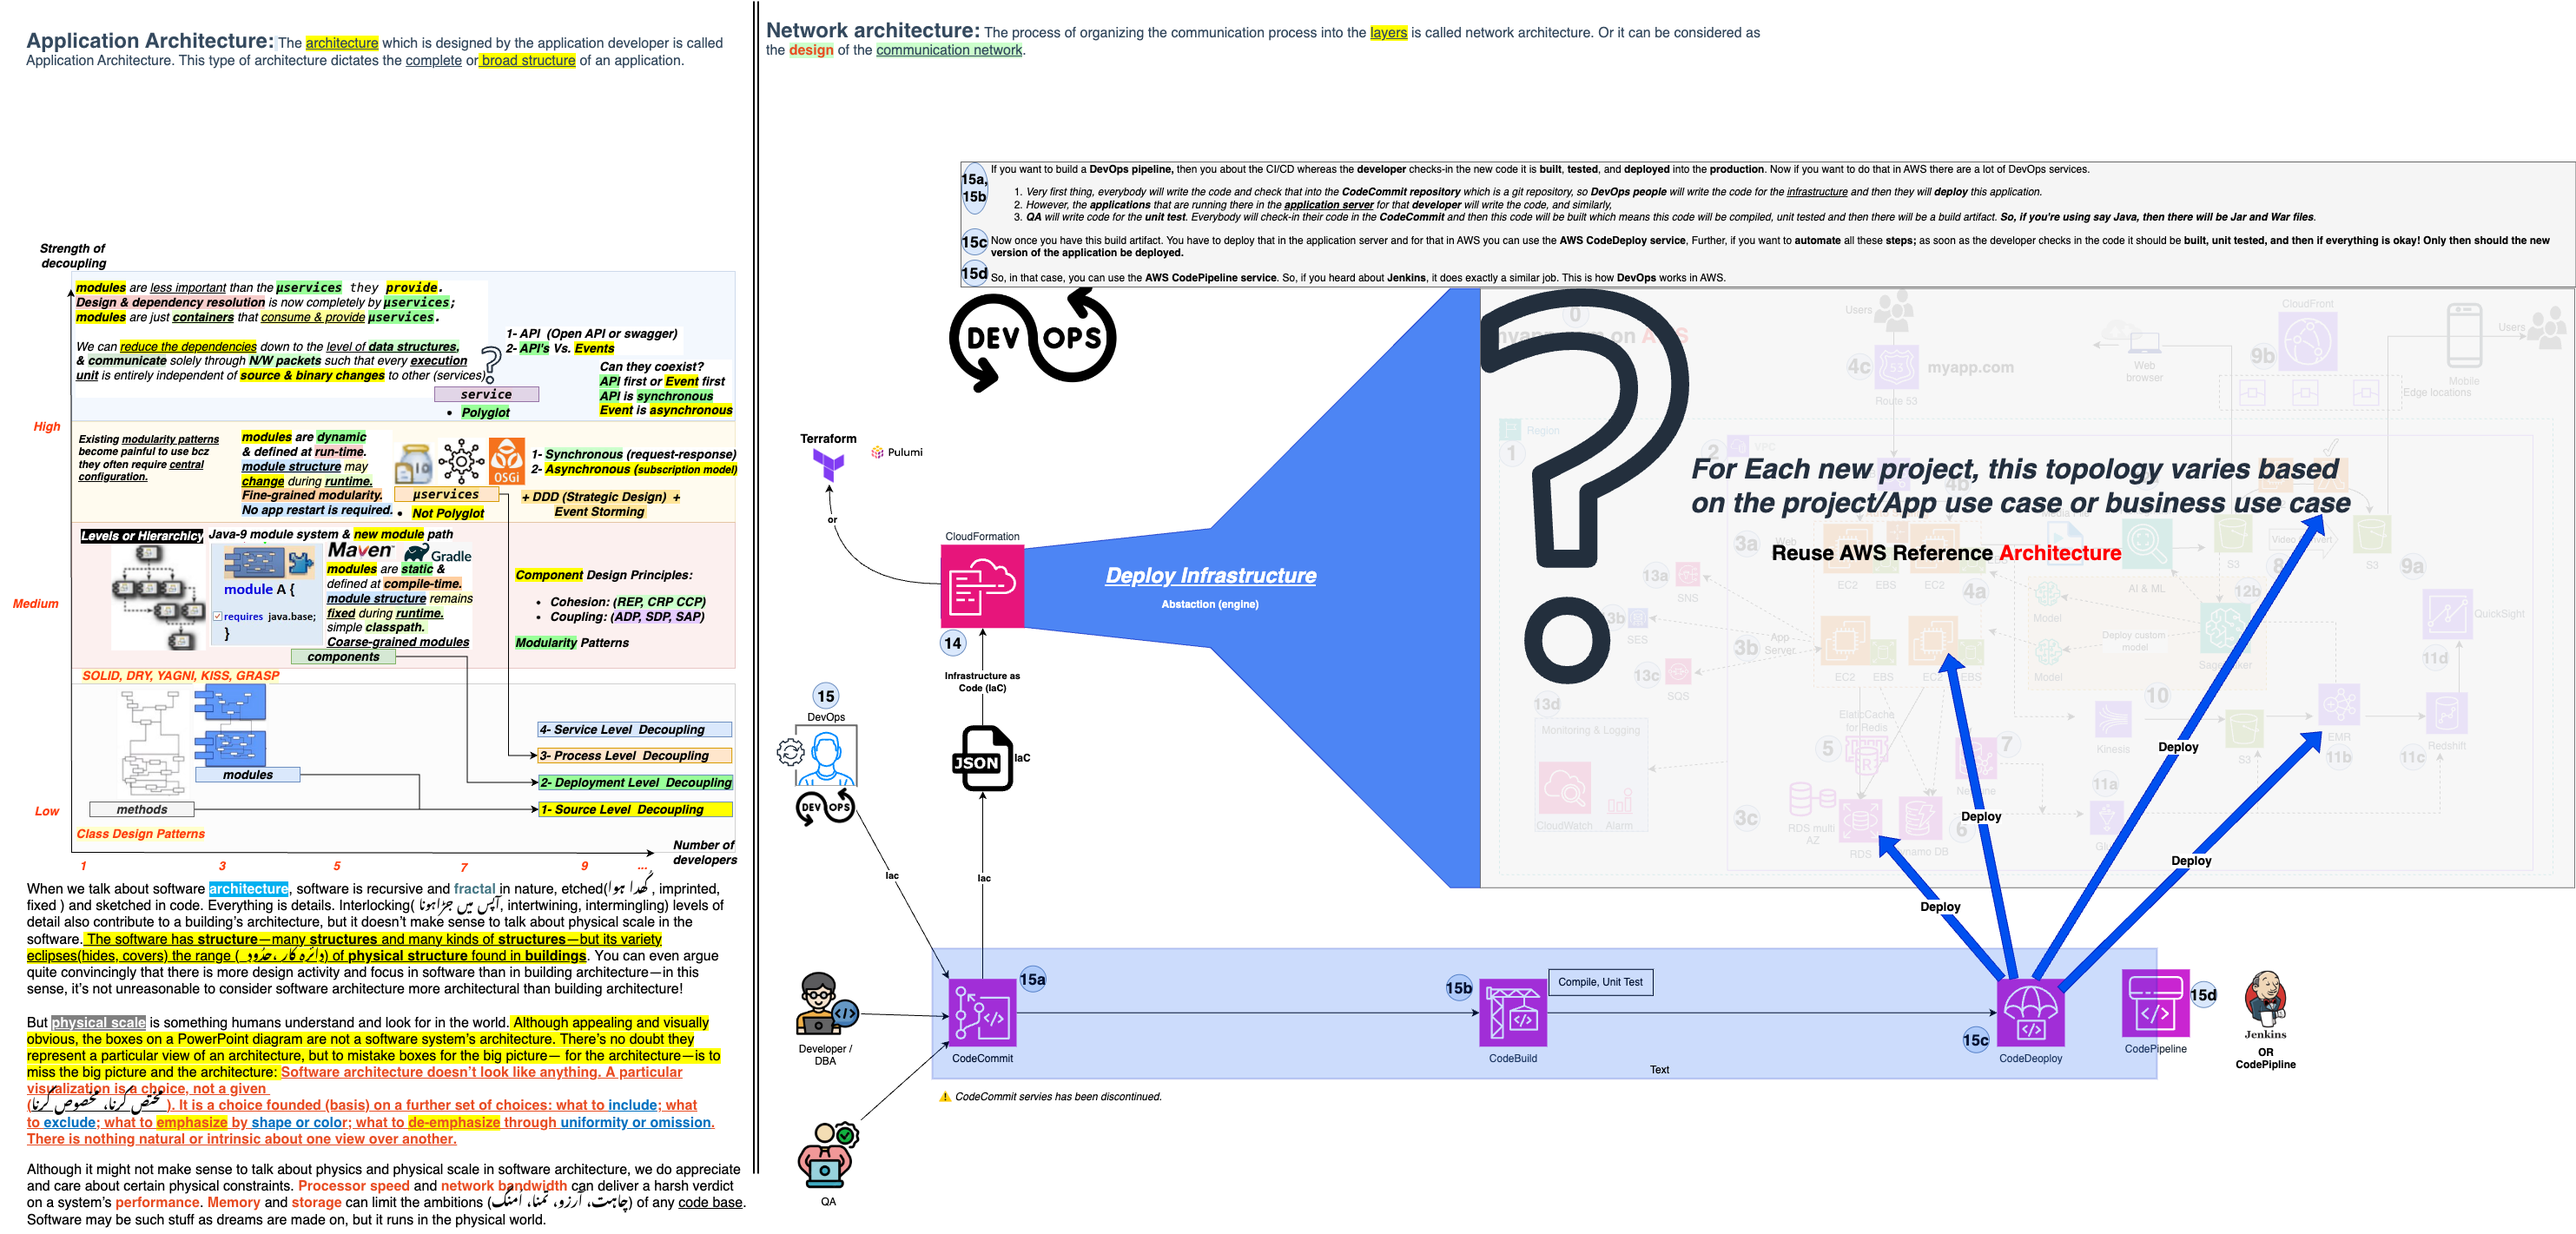
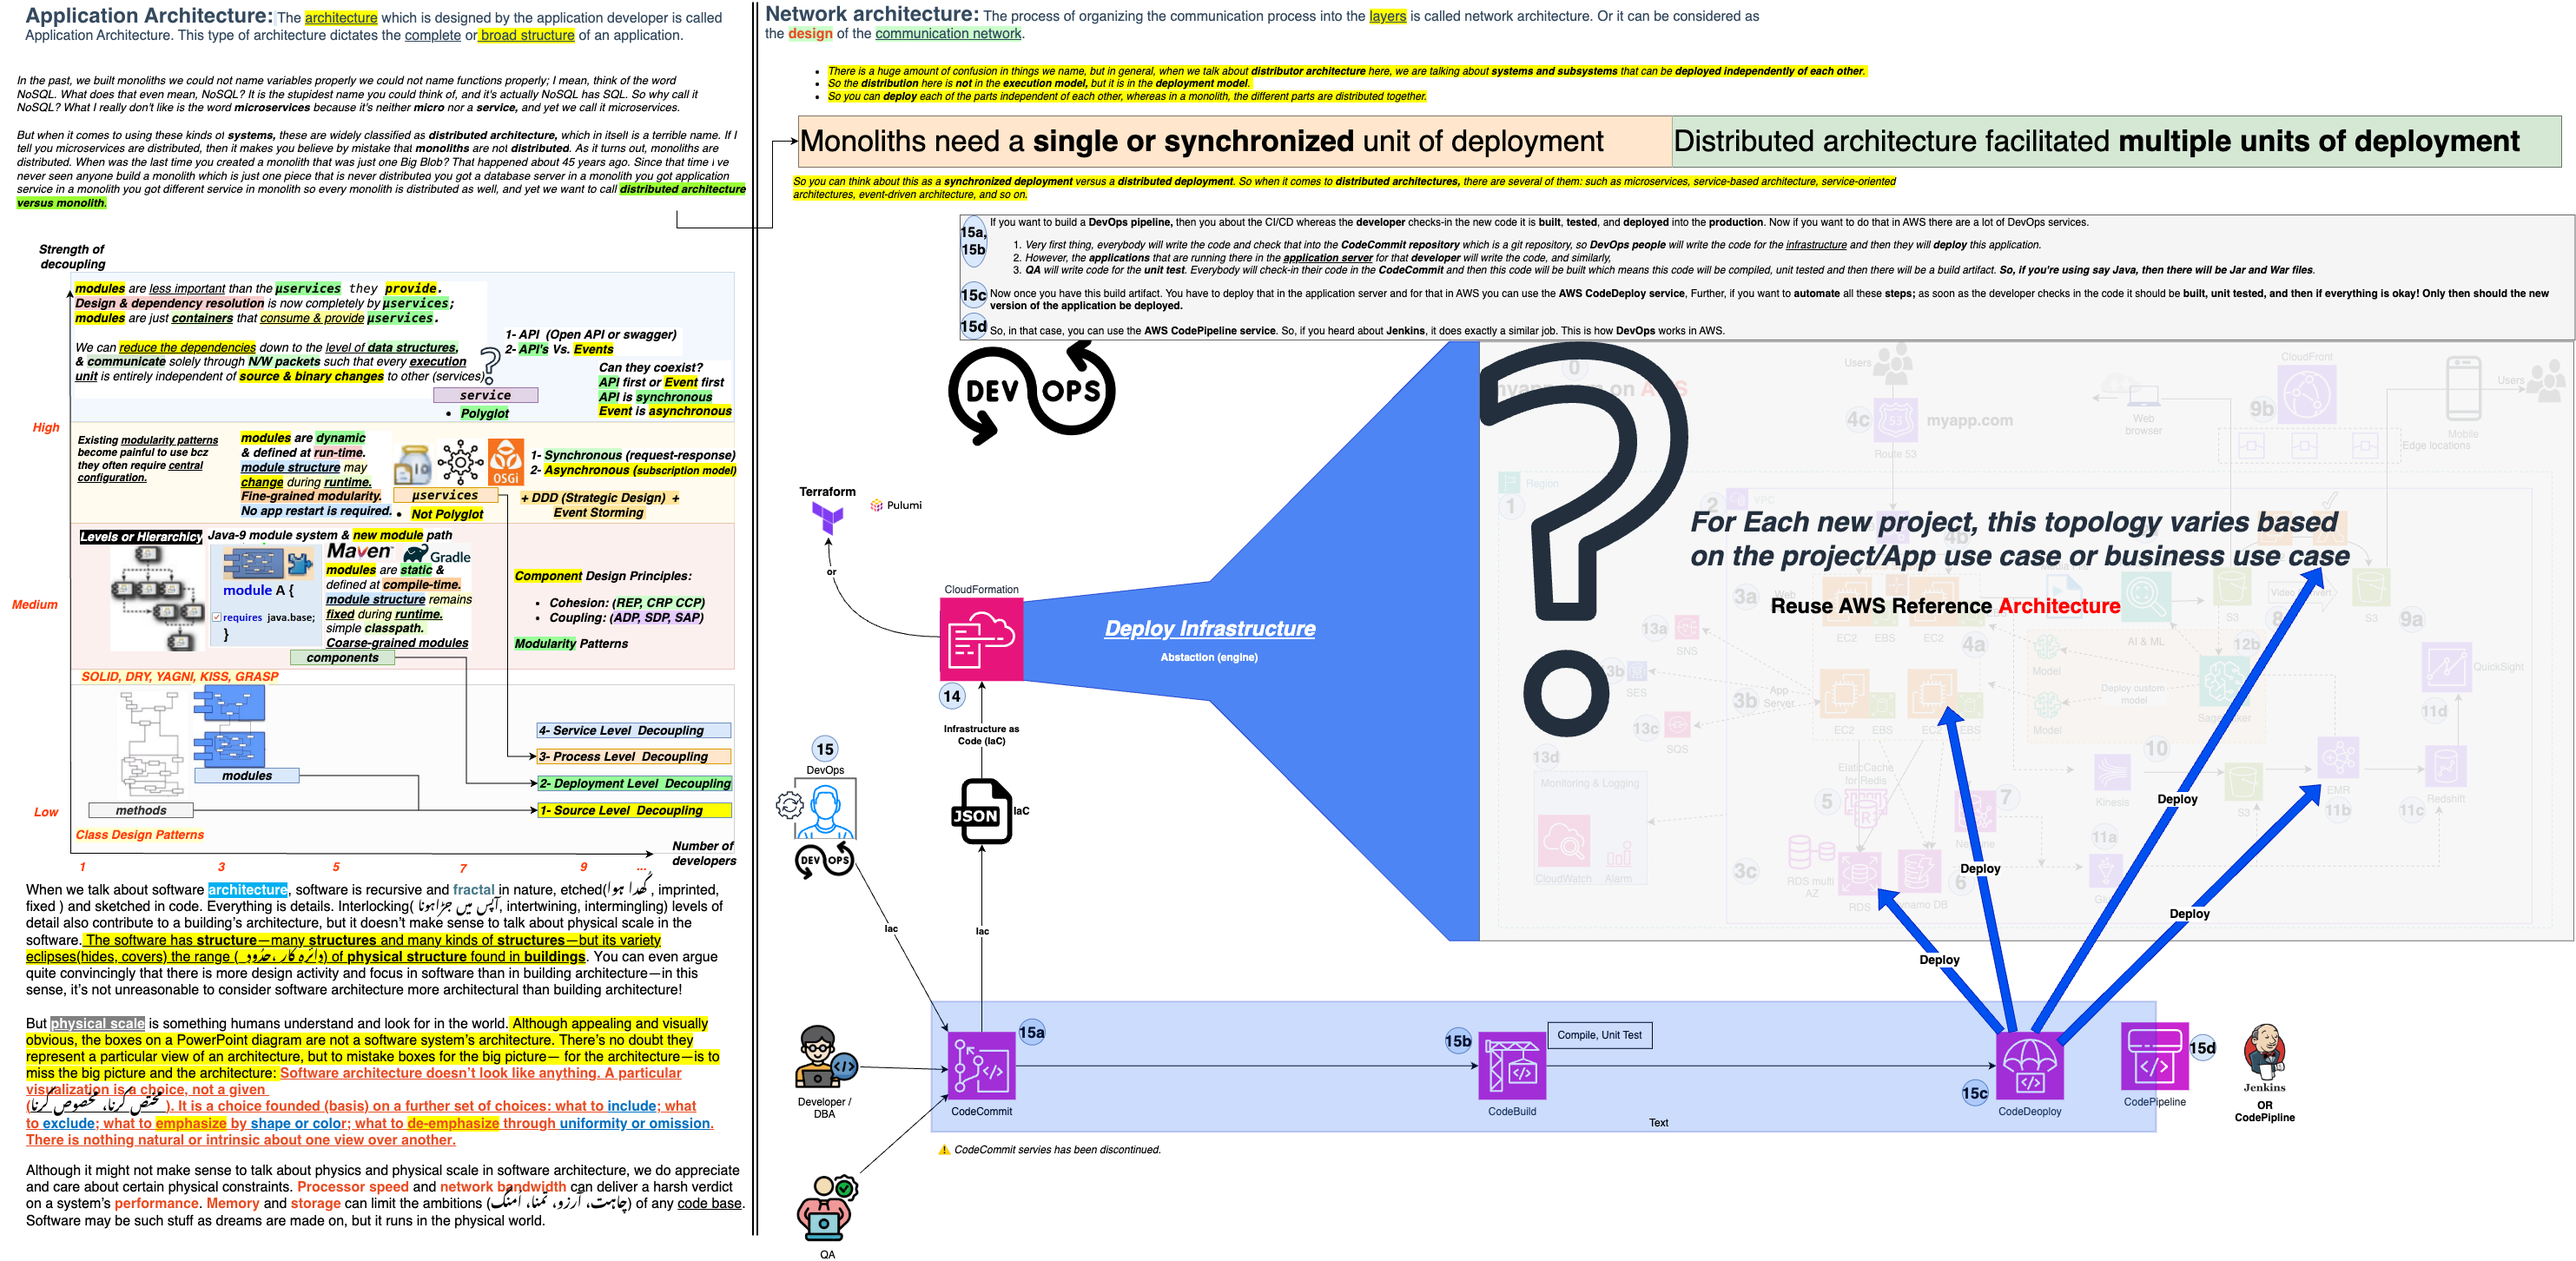
added 12-Essential-Practices-to-be-Effective-in-Continuous-Delivery.puml updated diagrams, and Observing-Applications-in-Production.puml also venkat-talks-mindmap.puml

Changed region(s): [[0.0, 0.0, 1.0, 1.0], [0.5893, 0.6193, 0.6204, 0.7122]]

diff --git a/docs/rough.md b/docs/rough.md
@@ -1,0 +1,22 @@
+In the past we built really monoliths we cannot name variables properly, we cannot name functions properly; I mean think of the word NoSQL. What does that even mean NoSQL? Is the stupidest name you could think of, and it's NoSQL
+actually has SQL. So why call it NoSQL? What I really don't like is the word **microservices** because it's neither **micro** nor a **service,**
+and yet we call it microservices.
+
+But when it comes to using these kinds of **systems** these are widely classified as **distributed architecture** which in itself
+is a terrible name. Because if I tell you microservices are distributed, then it makes you believe by mistake that **monoliths** are not
+**distributed**. As it turns out, monoliths are distributed. When was the last time you created a monolith that was just one Big Blob that
+happened about 45 years ago. Since that time I've never seen anyone build a monolith which is just one piece that is never distributed
+you got a database server in a monolith you got application service in a monolith you got different service in monolith so every monolith
+is distributed as well, and yet we want to call distributed architecture versus monolith.;
+
+So a huge amount of confusion in things we name but in general though when we talk about a **distributor architecture** here
+we are talking about **systems and subsystems** that can be **deployed independent of each other**.
+So the **distribution** here is **not** in the **execution model** but it is in the **deployment model**.
+So you can **deploy** each of the parts independent of each other whereas in a monolith the different parts are distributed together
+
+* Monoliths need a single or synchronized unit of deployment
+* Distributed architecture facilitated multiple units of deployment
+
+So you can think about this as a **synchronized deployment** versus a **distributed deployment**.
+So when it comes to <b>distributed architectures</b> there are several of them: such as
+microservices, service-based architecture, service-oriented architectures, event driven architecture and so on.
